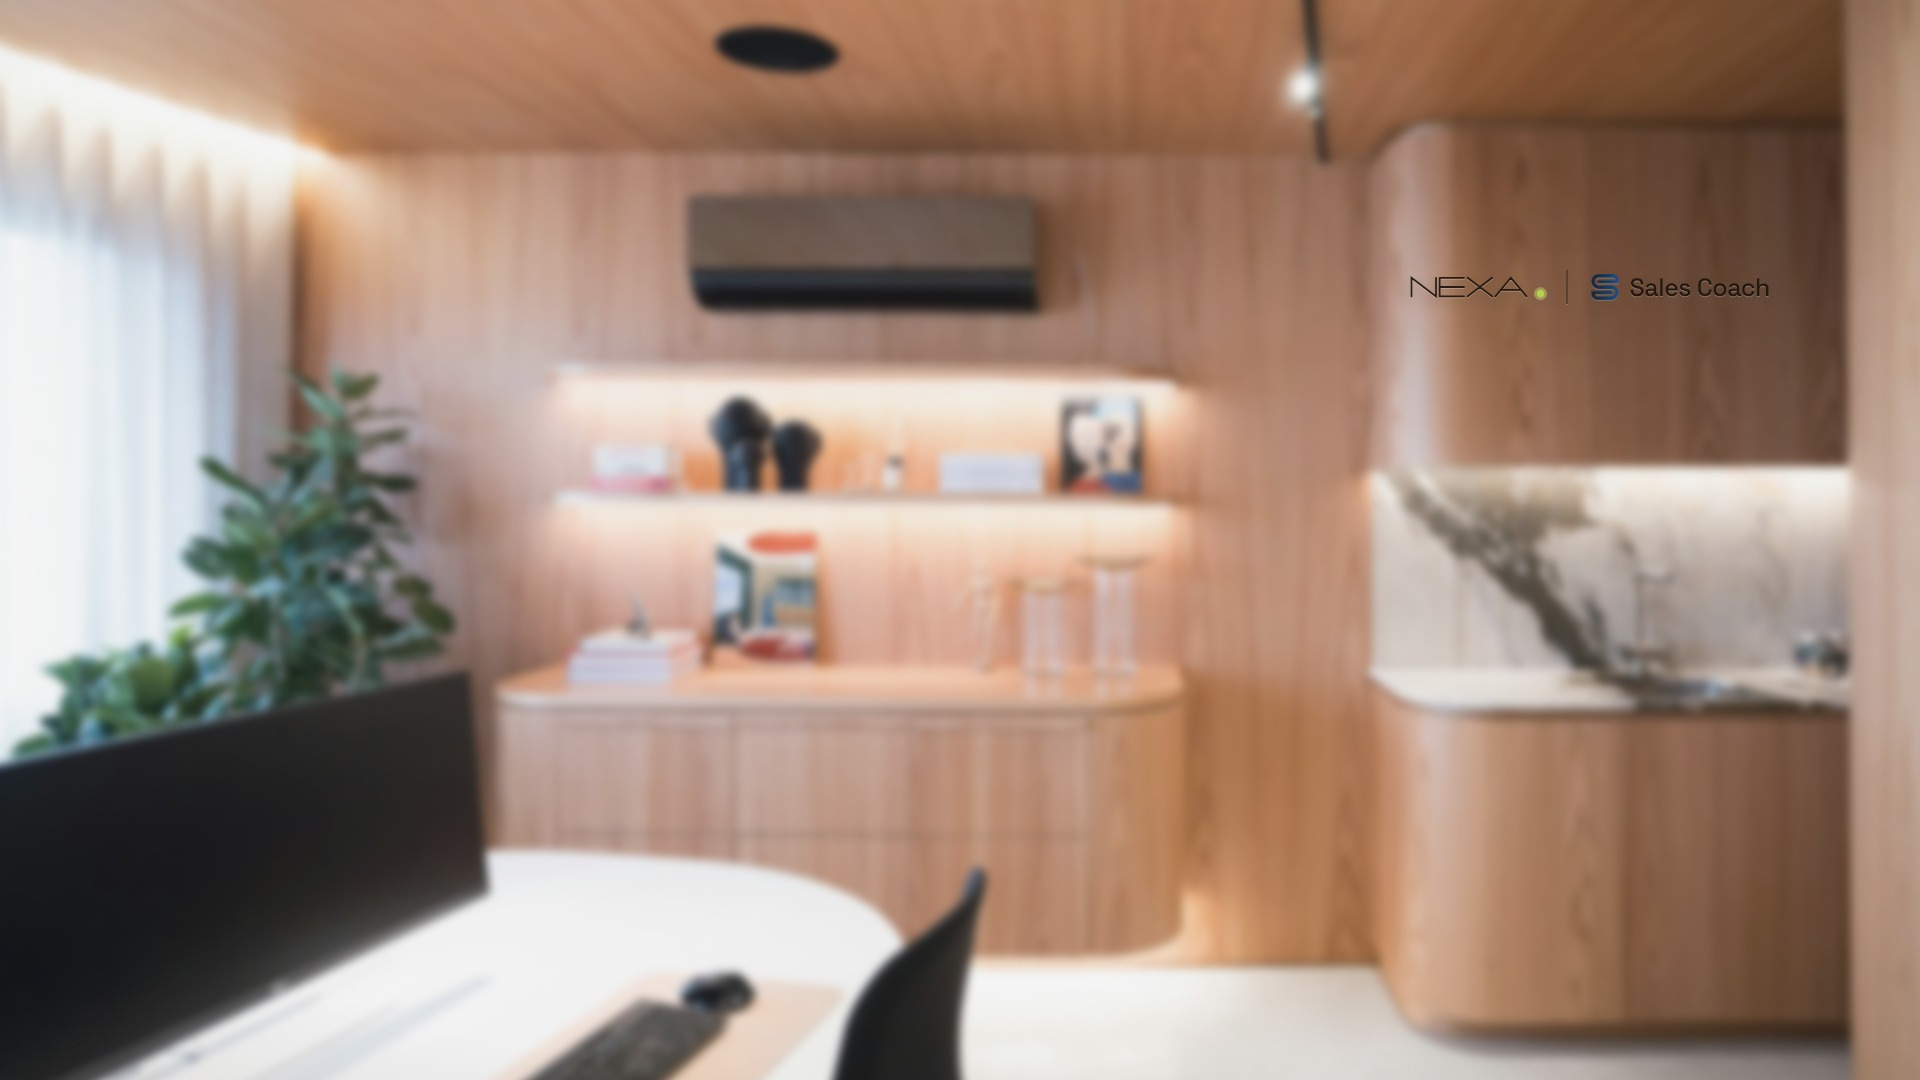
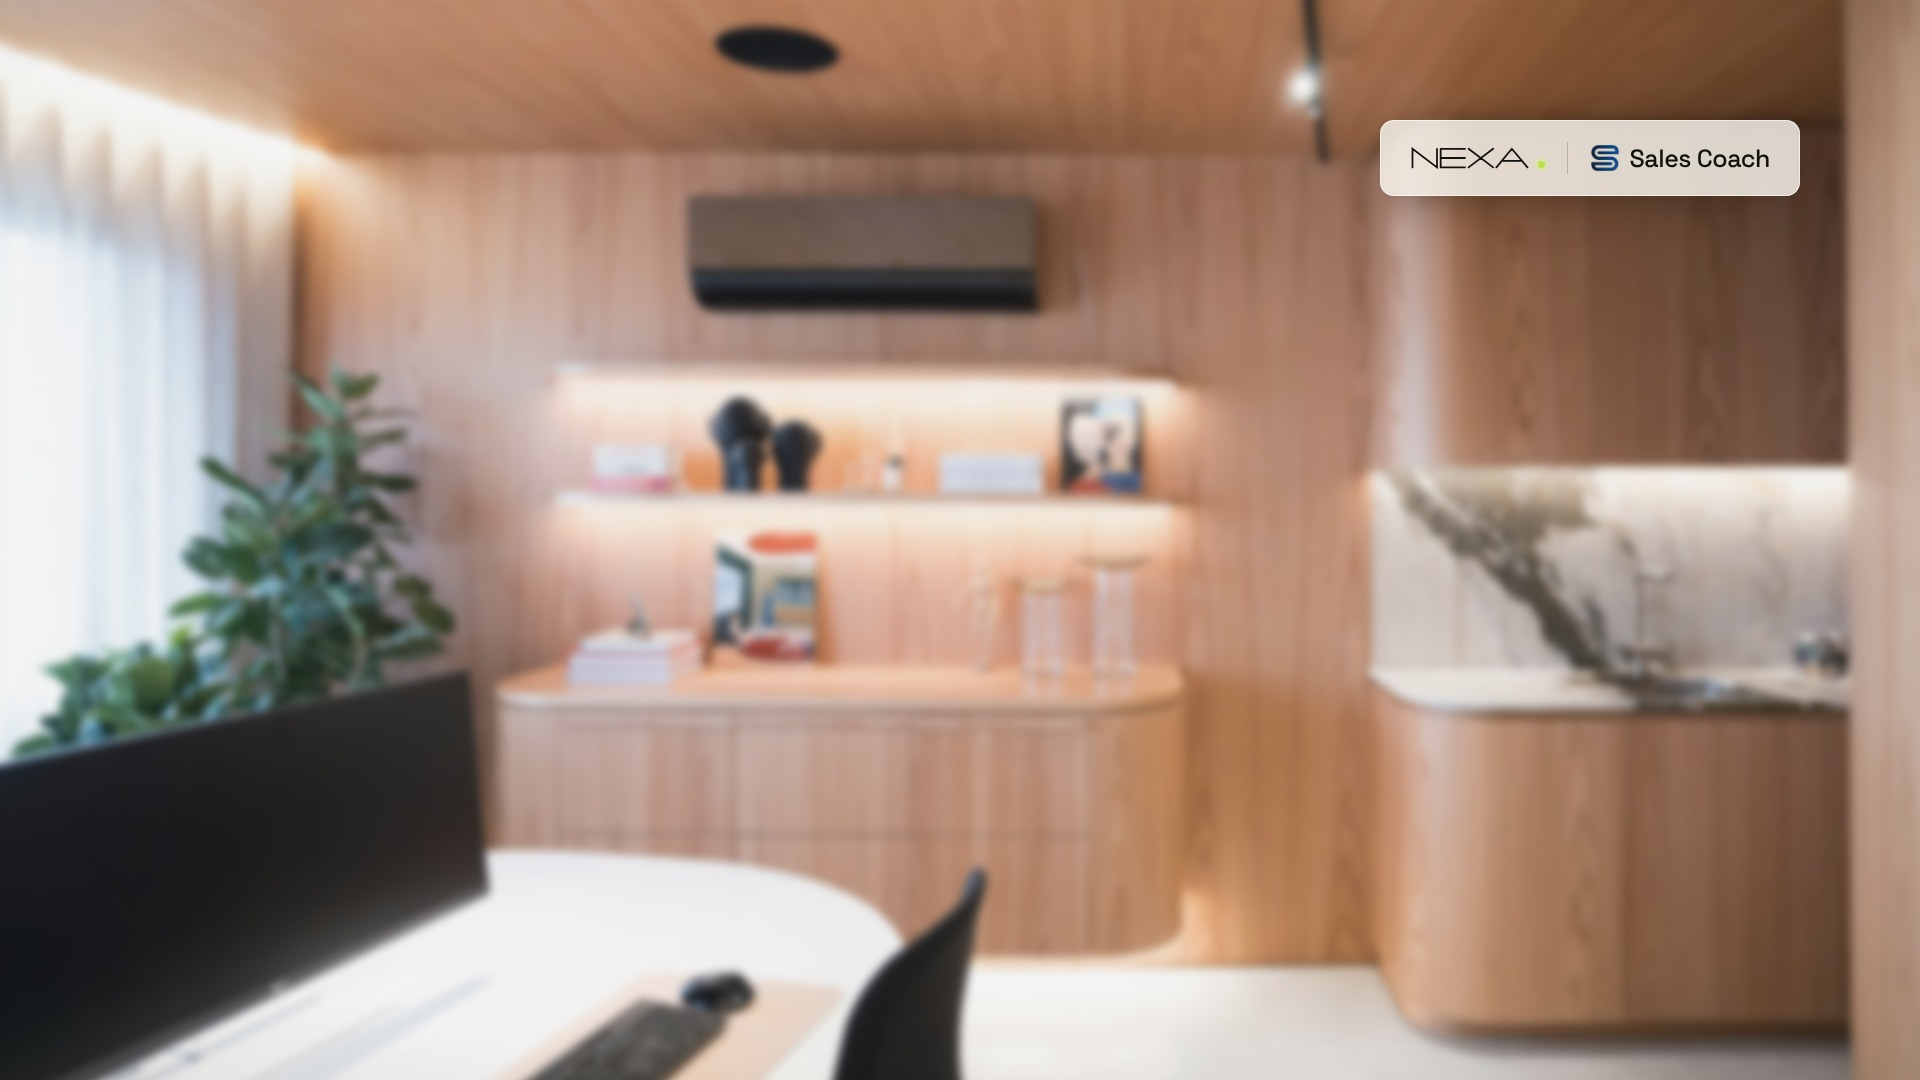
Fundo do Meet escritório: marca de volta na tag clara
Claude-Session: https://claude.ai/code/session_01D69rV6pxRKedanUm525i1S

Changed region(s): [[0.7188, 0.0917, 0.9375, 0.1833], [0.7188, 0.2444, 0.9062, 0.275]]

diff --git a/social/fundo-meet-nexa/escritorio.html b/social/fundo-meet-nexa/escritorio.html
@@ -5,12 +5,13 @@
  .f{position:relative;width:1920px;height:1080px;overflow:hidden;background:#3a2a1e}
  .foto{position:absolute;left:-40px;top:-30px;width:2000px;height:1140px;object-fit:cover;object-position:50% 40%;filter:blur(5px) saturate(.92) brightness(.96)}
  .tom{position:absolute;inset:0;background:radial-gradient(120% 100% at 50% 45%, transparent 55%, rgba(40,25,12,.28) 100%)}
- .placa{position:absolute;right:150px;top:270px;display:flex;align-items:center;gap:22px;filter:drop-shadow(0 6px 6px rgba(40,22,8,.35)) drop-shadow(0 1px 0 rgba(255,235,210,.35));opacity:.92}
+ .placa{position:absolute;right:120px;top:120px;display:flex;align-items:center;gap:22px;padding:22px 30px;border-radius:14px;
+   background:rgba(250,246,238,.82);backdrop-filter:blur(6px);box-shadow:0 18px 40px -18px rgba(40,25,12,.55), inset 0 0 0 1px rgba(255,255,255,.6)}
  .nexa{display:flex;align-items:center;gap:8px}
- .nexa svg{width:120px;height:22px} .nexa path{fill:none;stroke:#1d150f;stroke-width:12;stroke-linecap:round}
+ .nexa svg{width:120px;height:22px} .nexa path{fill:none;stroke:#10120e;stroke-width:12;stroke-linecap:round}
  .nexa i{width:7px;height:7px;border-radius:50%;background:#b9e04a;box-shadow:0 0 0 3px rgba(212,249,105,.35);margin-top:13px}
- .sep{width:2px;height:34px;background:rgba(29,21,15,.55)}
- .sc{display:flex;align-items:center;gap:10px;font:500 25px/1 'Space Grotesk',sans-serif;letter-spacing:-.02em;color:#1d150f}
+ .sep{width:1px;height:32px;background:rgba(16,18,14,.2)}
+ .sc{display:flex;align-items:center;gap:10px;font:500 25px/1 'Space Grotesk',sans-serif;letter-spacing:-.02em;color:#10120e}
  .sc img{width:30px}
 </style></head><body><div class="f">
  <img class="foto" src="img/escritorio.jpg" alt="">
